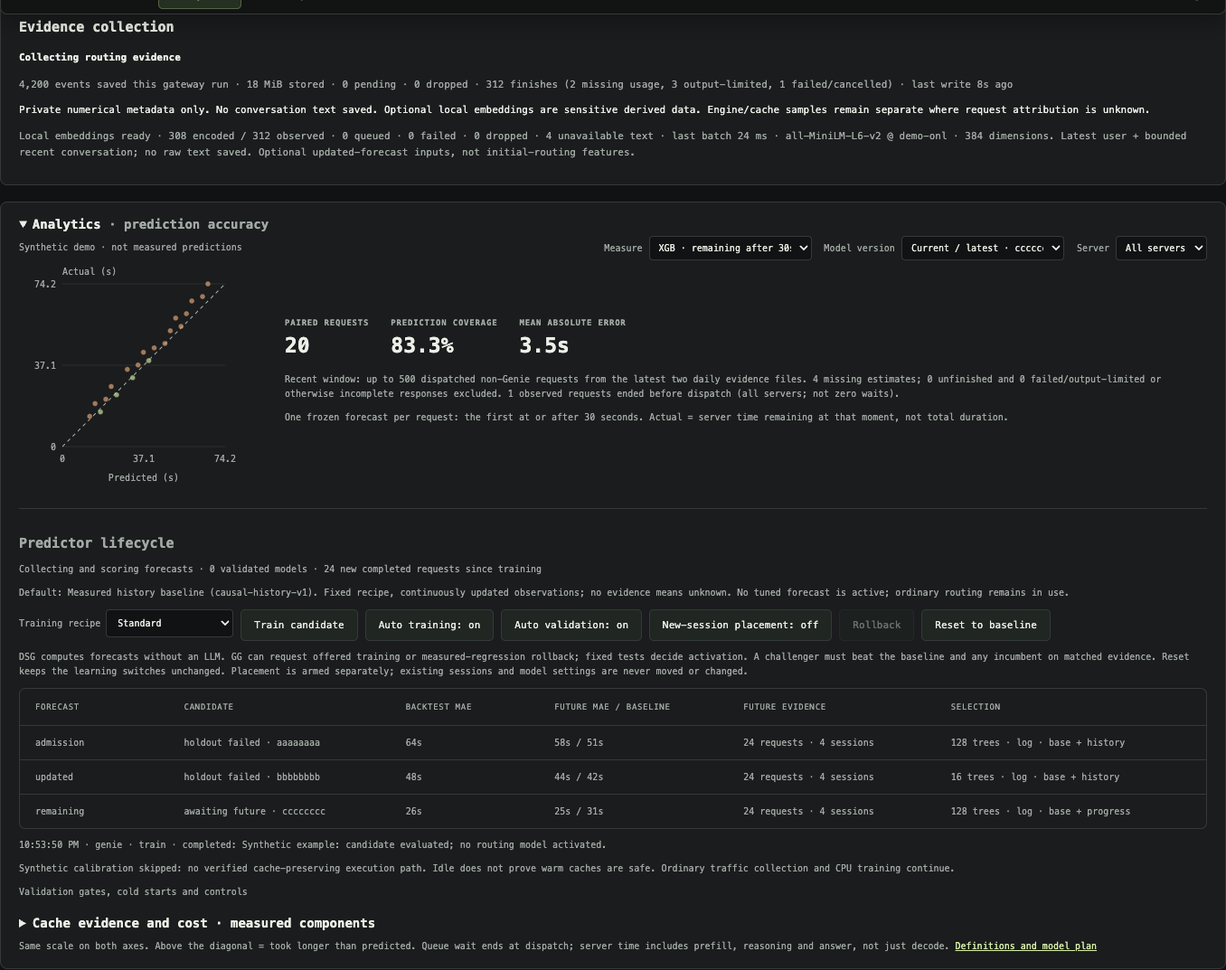
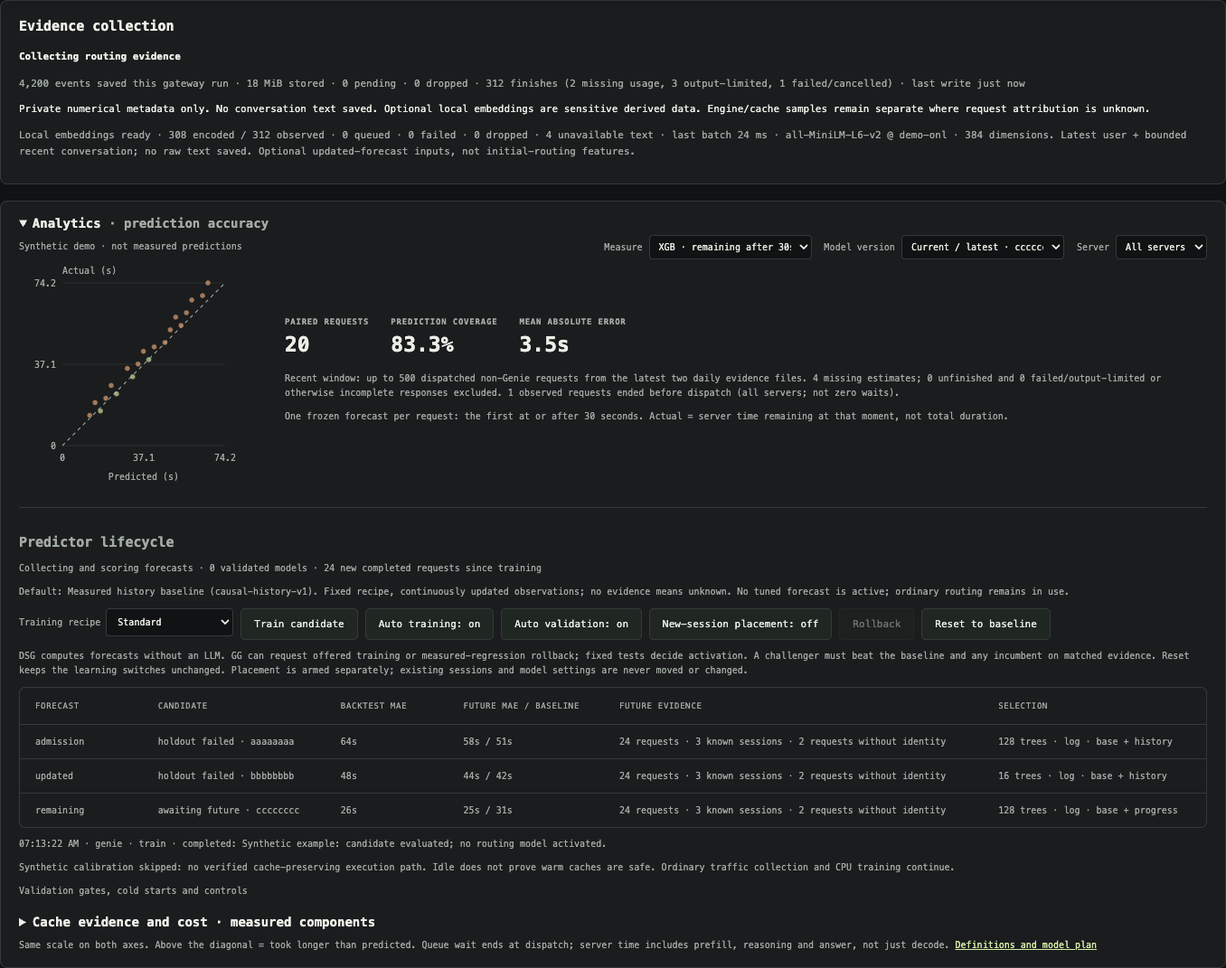
Require identified sessions for predictor qualification

diff --git a/ds4-gateway/ui/ui.js b/ds4-gateway/ui/ui.js
@@ -6,6 +6,10 @@ const esc = s => String(s ?? '').replace(/[&<>"']/g, c => ({ '&': '&amp;', '<': 
 const age = (time, now) => !time ? 'no sample yet' : now - time < 5000 ? 'just now' : now - time < 60000 ? `${Math.floor((now-time)/1000)}s ago` : `${Math.floor((now-time)/60000)}m ago`;
 const remaining = (time, now) => !time ? 'unknown' : time <= now ? 'expired' : time-now < 60000 ? `${Math.ceil((time-now)/1000)}s` : time-now < 3600000 ? `${Math.ceil((time-now)/60000)}m` : `${(Math.ceil((time-now)/360000)/10).toFixed(1).replace(/\.0$/,'')}h`;
 const clock = t => new Date(t).toLocaleTimeString([], { hour: '2-digit', minute: '2-digit', second: '2-digit' });
+function predictionSessionLabel(evidence){
+  if(!Number.isSafeInteger(evidence?.known_sessions)||evidence.known_sessions<0)return `${fmt(evidence?.sessions??0)} recorded groups`;
+  return `${fmt(evidence.known_sessions)} known sessions${evidence.unknown_identity_requests>0?` · ${fmt(evidence.unknown_identity_requests)} requests without identity`:''}`;
+}
 function forecastLabel(f, now, stale=false) {
   if (!f || !Number.isFinite(f.at) || !Number.isFinite(f.seconds) || f.seconds<0 || f.at>now) return 'ETA unknown';
   if (stale || now-f.at>60000) return 'Forecast stale';
@@ -886,7 +890,7 @@ function renderMilestones(milestones,unavailable){
       const title=document.createElement('strong');title.textContent=`${m.kind}: a challenger earned its place.`;
       const facts=document.createElement('p'),s=m.evidence.baseline,c=m.evidence.champion;
       const gain=s.baseline_mae_s>0?100*(1-s.mae_s/s.baseline_mae_s):null;
-      facts.textContent=`Verified at ${clock(m.time)} · model ${m.model_id.slice(0,8)} · ${fmt(gain)}% lower mean absolute prediction error than ${m.baseline_id}: ${fmt(s.mae_s)}s vs ${fmt(s.baseline_mae_s)}s over ${s.requests} requests / ${s.sessions} sessions (${(m.evidence.workers||[]).join(', ')}).${c?` Matched incumbent ${m.comparator_id.slice(0,8)}: ${fmt(c.mae_s)}s vs ${fmt(c.baseline_mae_s)}s over ${c.requests} requests; ${c.fallback_points}/${c.forecast_points} incumbent forecast points used its baseline fallback.`:''} This is prediction accuracy, not a measured routing speedup.`;
+      facts.textContent=`Verified at ${clock(m.time)} · model ${m.model_id.slice(0,8)} · ${fmt(gain)}% lower mean absolute prediction error than ${m.baseline_id}: ${fmt(s.mae_s)}s vs ${fmt(s.baseline_mae_s)}s over ${s.requests} requests / ${predictionSessionLabel(s)} (${(m.evidence.workers||[]).join(', ')}).${c?` Matched incumbent ${m.comparator_id.slice(0,8)}: ${fmt(c.mae_s)}s vs ${fmt(c.baseline_mae_s)}s over ${c.requests} requests; ${c.fallback_points}/${c.forecast_points} incumbent forecast points used its baseline fallback.`:''} This is prediction accuracy, not a measured routing speedup.`;
       article.append(title,facts);
       if(m.commentary){const comment=document.createElement('p');comment.textContent=`Genie commentary: ${m.commentary.text}`;article.append(comment);}
       const button=document.createElement('button');button.type='button';button.className='button';button.dataset.milestone=m.id;button.textContent='Dismiss announcement';article.append(button);
@@ -917,7 +921,7 @@ function renderPredictor(state,unavailable=false){
     b.disabled=unavailable||!state?.configured||predictorControlBusy||(action==='train'&&state.busy)||(action==='rollback'&&!active);
     if(['automatic_training','automatic_promotion','placement'].includes(action)){const label={automatic_training:'Auto training',automatic_promotion:'Auto validation',placement:'New-session placement'}[action];b.textContent=`${label}: ${state?.[action]?'on':'off'}`;b.setAttribute('aria-pressed',String(!!state?.[action]));}
   }
-  $('predictor-models').innerHTML=`<table><thead><tr><th>Forecast</th><th>Candidate</th><th>Backtest MAE</th><th>Future MAE / baseline</th><th>Future evidence</th><th>Selection</th></tr></thead><tbody>${(state?.models||[]).map(m=>`<tr><td>${esc(m.kind)}${m.active_model_id?' · active '+esc(m.active_model_id.slice(0,8)):''}</td><td>${esc(m.status.replaceAll('_',' '))}${m.candidate_model_id?' · '+esc(m.candidate_model_id.slice(0,8)):''}</td><td>${fmt(m.holdout?.mae_s)}s</td><td>${fmt(m.future?.mae_s)}s / ${fmt(m.future?.baseline_mae_s)}s</td><td>${fmt(m.future?.requests||0)} requests · ${fmt(m.future?.sessions||0)} sessions</td><td>${m.selected?esc(`${m.selected.rounds} trees · ${m.selected.transform} · ${m.selected.family.join(' + ')}`):'Not enough evidence'}</td></tr>`).join('')}</tbody></table>`;
+  $('predictor-models').innerHTML=`<table><thead><tr><th>Forecast</th><th>Candidate</th><th>Backtest MAE</th><th>Future MAE / baseline</th><th>Future evidence</th><th>Selection</th></tr></thead><tbody>${(state?.models||[]).map(m=>`<tr><td>${esc(m.kind)}${m.active_model_id?' · active '+esc(m.active_model_id.slice(0,8)):''}</td><td>${esc(m.status.replaceAll('_',' '))}${m.candidate_model_id?' · '+esc(m.candidate_model_id.slice(0,8)):''}</td><td>${fmt(m.holdout?.mae_s)}s</td><td>${fmt(m.future?.mae_s)}s / ${fmt(m.future?.baseline_mae_s)}s</td><td>${fmt(m.future?.requests||0)} requests · ${esc(predictionSessionLabel(m.future))}</td><td>${m.selected?esc(`${m.selected.rounds} trees · ${m.selected.transform} · ${m.selected.family.join(' + ')}`):'Not enough evidence'}</td></tr>`).join('')}</tbody></table>`;
   $('predictor-actions').replaceChildren(...(state?.actions||[]).slice(0,5).map(a=>{const p=document.createElement('p');p.textContent=`${clock(a.time)} · ${a.actor} · ${a.action} · ${a.status}${a.recipe_id?' · '+a.recipe_id:''}: ${a.reason}`;return p;}));
 }
 $('predictor-controls').addEventListener('click',async event=>{

diff --git a/predictor/occupancy_future.py b/predictor/occupancy_future.py
@@ -1,6 +1,7 @@
 """Frozen-model future audit. Offline only; never promotes or changes routing."""
 import argparse
 import bisect
+import collections
 import datetime as dt
 import hashlib
 import json
@@ -8,7 +9,7 @@ import math
 import os
 import stat
 
-from fit_v2 import OCCUPANCY_SCHEMAS, baseline, exported_prediction, feature_coverage, metrics, split, split_usage, target_coverage
+from fit_v2 import OCCUPANCY_SCHEMAS, baseline, exported_prediction, feature_coverage, known_session, metrics, session_evidence, split, split_usage, target_coverage
 
 
 def read_json(path):
@@ -76,6 +77,31 @@ def elapsed_slices(training_rows, rows, predictions):
                       'metrics':metrics(selected,estimates) if selected else None,
                       'baselines':baseline(training_rows,selected)[0] if selected else None}
     return result
+
+
+def future_strata(training_rows, rows, predictions):
+    """Describe transfer evidence, not a new release gate or model selector.
+
+    Familiarity uses only the fitted partition, not every session in the frozen
+    input snapshot. Missing session identity is neither familiar nor unseen.
+    Reweight each slice by request so verbose progress cannot dominate it.
+    """
+    known={r['group'] for r in training_rows if known_session(r.get('group'))}
+    workers=collections.defaultdict(list)
+    sessions={name:[] for name in ('seen_in_training','unseen_in_training','unknown')}
+    for row,prediction in zip(rows,predictions,strict=True):
+        workers[row['node']].append((row,prediction))
+        group=row.get('group')
+        bucket='unknown' if not known_session(group) else 'seen_in_training' if group in known else 'unseen_in_training'
+        sessions[bucket].append((row,prediction))
+    def summarize(pairs):
+        points=[row for row,_ in pairs];estimates=[p for _,p in pairs]
+        return {'points':len(points),'metrics':metrics(points,estimates) if points else None,
+                'baselines':baseline(training_rows,points)[0] if points else None}
+    return {'by_worker':{node:summarize(pairs) for node,pairs in sorted(workers.items())},
+            'session_evidence':session_evidence(rows),
+            'by_session_familiarity':{name:summarize(pairs) for name,pairs in sessions.items()},
+            'note':'Fixed descriptive slices, not tuning or promotion gates. Familiarity is relative to fitted training sessions, not proof of independent traffic or matching profile eras. Worker IDs remain private audit data; request/session IDs are not emitted.'}
 
 
 def remaining_age_support(training_rows, rows):
@@ -161,6 +187,7 @@ def evaluate(candidate_path,training_path,receipt_path,prepared_path):
         tr,_=split([r for r in training['rows'] if r['kind']==kind],candidate['reports'][kind]['cutoff'])
         report={'status':'no_future_labels','target_coverage':target_coverage(rows),
                 'input_support':input_support(model,tr,rows,training.get('groups',{}).get('hardware',[]))};result['reports'][kind]=report
+        report['future_strata']=future_strata(tr,[],[])
         if kind=='remaining':report['age_support']=remaining_age_support(tr,rows)
         if not rows:
             if kind=='remaining':report['by_elapsed']=elapsed_slices(tr,[],[])
@@ -168,6 +195,7 @@ def evaluate(candidate_path,training_path,receipt_path,prepared_path):
         if not tr:raise ValueError('Frozen training partition is empty')
         predictions=[exported_prediction(model,r['features']) for r in rows]
         if any(not math.isfinite(p) for p in predictions):raise ValueError('Non-finite prediction')
+        report['future_strata']=future_strata(tr,rows,predictions)
         report.update(status='observed_not_promoted',metrics=metrics(rows,predictions),baselines=baseline(tr,rows)[0],
             terminal_classes={label:metrics([r for r in rows if r['terminal_class']==label],[p for r,p in zip(rows,predictions) if r['terminal_class']==label])
                 if any(r['terminal_class']==label for r in rows) else None for label in ('normal','output_limited')})

diff --git a/predictor/test_occupancy_future.py b/predictor/test_occupancy_future.py
@@ -9,6 +9,56 @@ import occupancy_future as audit
 
 
 class OccupancyFutureTests(unittest.TestCase):
+    def test_future_strata_expose_worker_failure_and_unseen_sessions_without_names(self):
+        tr=[self.row('train',100,200)]
+        tr[0]['group']='private-familiar-session'
+        rows=[self.row('a',1000,2000),self.row('b',1000,2000),self.row('c',1000,2000)]
+        rows[0]['group']='private-familiar-session'
+        rows[1]['group']='private-unseen-session';rows[1]['node']='b'
+        rows[2]['group']='unknown-session';rows[2]['node']='b'
+        original=copy.deepcopy((tr,rows))
+        result=audit.future_strata(tr,rows,[10,110,10])
+        self.assertEqual(result['by_worker']['a']['metrics']['mae_s'],0)
+        self.assertEqual(result['by_worker']['b']['metrics']['mae_s'],50)
+        self.assertEqual(result['by_session_familiarity']['seen_in_training']['metrics']['mae_s'],0)
+        self.assertEqual(result['by_session_familiarity']['unseen_in_training']['metrics']['mae_s'],100)
+        unknown=result['by_session_familiarity']['unknown']
+        self.assertEqual(unknown['metrics']['requests'],1)
+        self.assertEqual(unknown['baselines']['worker_mean']['mae_s'],0)
+        self.assertEqual((tr,rows),original)
+        encoded=json.dumps(result)
+        self.assertNotIn('private-familiar-session',encoded)
+        self.assertNotIn('private-unseen-session',encoded)
+        self.assertNotIn('request_id',encoded)
+
+    def test_future_strata_rebalance_progress_within_worker_and_keep_empty_unknown(self):
+        tr=[self.row('train',100,200)]
+        rows=[self.row('a',1000,2000,'remaining') for _ in range(40)]+[self.row('b',1000,2000,'remaining')]
+        result=audit.future_strata(tr,rows,[10]*40+[110])
+        self.assertEqual(result['by_worker']['a']['points'],41)
+        self.assertEqual(result['by_worker']['a']['metrics']['requests'],2)
+        self.assertAlmostEqual(result['by_worker']['a']['metrics']['mae_s'],50)
+        empty=result['by_session_familiarity']['unseen_in_training']
+        self.assertEqual(empty,{'points':0,'metrics':None,'baselines':None})
+        self.assertEqual(audit.future_strata(tr,[],[])['by_worker'],{})
+        with self.assertRaises(ValueError):audit.future_strata(tr,rows,[10])
+
+    def test_evaluation_familiarity_uses_actual_fitted_partition_not_entire_snapshot(self):
+        self.training['rows'].append({**self.row('holdout',600,700),'group':'only-in-holdout'})
+        self.training['rows'].append({**self.row('unfinished-at-cut',100,900),'group':'purged-training'})
+        self.write('training',self.training)
+        self.receipt=audit.freeze(self.root/'candidate',self.root/'training',self.root/'strata-receipt')
+        cut=audit.timestamp(self.receipt['frozen_at'])
+        self.future['snapshot']['created_at']=dt.datetime.fromtimestamp((cut+10000)/1000,dt.timezone.utc).isoformat()
+        self.future['rows']=[{**self.row(str(i),cut+1,cut+1000),'group':group}
+                             for i,group in enumerate(('session','only-in-holdout','purged-training'))]
+        self.write('future',self.future)
+        result=audit.evaluate(self.root/'candidate',self.root/'training',self.root/'strata-receipt',self.root/'future')
+        r=result['reports']['admission']['future_strata']
+        self.assertEqual(r['by_session_familiarity']['seen_in_training']['metrics']['requests'],1)
+        self.assertEqual(r['by_session_familiarity']['unseen_in_training']['metrics']['requests'],2)
+        self.assertEqual(result['reports']['remaining']['future_strata']['by_worker'],{})
+
     def test_remaining_age_support_counts_jobs_not_repeated_progress_and_excludes_future_labels(self):
         tr=[self.row('a',100,200,'remaining') for _ in range(50)]+[self.row('b',100,200,'remaining')]
         for row in tr:row['features']['elapsed_s']=900

diff --git a/predictor/fit_v2.py b/predictor/fit_v2.py
@@ -42,6 +42,20 @@ def unique(rows):
     return len({(r['run_id'], r['request_id']) for r in rows})
 
 
+def known_session(group):
+    return isinstance(group,str) and bool(group.strip()) and group!='unknown-session'
+
+
+def session_evidence(rows):
+    return {'known_sessions':len({r['group'] for r in rows if known_session(r.get('group'))}),
+            'unknown_identity_requests':unique([r for r in rows if not known_session(r.get('group'))])}
+
+
+def validated_holdout(rows, measured, baselines):
+    # Preserve thresholds; missing identity is not an independent session.
+    return unique(rows)>=20 and session_evidence(rows)['known_sessions']>=3 and measured['mae_s']<=min(x['mae_s'] for x in baselines.values())*.9 and .7<=measured['mean_ratio']<=1.3
+
+
 def weights(rows):
     counts = collections.Counter((r['run_id'], r['request_id']) for r in rows)
     return np.asarray([1 / counts[(r['run_id'], r['request_id'])] for r in rows])
@@ -64,7 +78,7 @@ def folds(rows):
         index = int(len(times)*(fraction+.2))
         end = times[index] if index < len(times) else float('inf')
         tr, va = split(rows, start, end)
-        if unique(tr) >= 15 and unique(va) >= 5 and len({r['group'] for r in tr}) >= 2:
+        if unique(tr) >= 15 and unique(va) >= 5 and session_evidence(tr)['known_sessions'] >= 2:
             result.append((tr, va))
     return result
 
@@ -303,13 +317,15 @@ def train(prepared, recipe_id=DEFAULT_RECIPE, *, occupancy=False):
         by_worker={node:metrics([r for r in te if r['node']==node],[float(p) for r,p in zip(te,predictions) if r['node']==node]) for node in {r['node'] for r in te}}
         # Gate is deliberately immutable code, not a parameter the Genie supplies.
         best_baseline=min(x['mae_s'] for x in baselines.values())
-        passed=unique(te)>=20 and measured['sessions']>=3 and measured['mae_s']<=best_baseline*.9 and .7<=measured['mean_ratio']<=1.3
-        unseen=[r for r in te if r['group'] not in {x['group'] for x in tr}]
+        passed=validated_holdout(te,measured,baselines)
+        trained_groups={r['group'] for r in tr if known_session(r.get('group'))}
+        unseen=[r for r in te if known_session(r.get('group')) and r['group'] not in trained_groups]
         unseen_metrics=metrics(unseen,predict(model,enc,factor,unseen,winner['transform'])) if unseen else None
         unseen_baselines=baseline(tr,unseen)[0] if unseen else None
-        unseen_passed=bool(unseen_metrics and unseen_metrics['requests']>=20 and unseen_metrics['sessions']>=3 and unseen_metrics['mae_s']<=min(m['mae_s'] for m in unseen_baselines.values())*.9 and .7<=unseen_metrics['mean_ratio']<=1.3)
+        unseen_passed=bool(unseen_metrics and validated_holdout(unseen,unseen_metrics,unseen_baselines))
         report.update(status='holdout_passed' if passed else 'holdout_failed',selected={k:v for k,v in winner.items() if k!='names'},ablations=[{k:v for k,v in c.items() if k not in ('names','fold_metrics')} for c in candidates],holdout=measured,baselines=baselines,by_worker=by_worker,cutoff=cutoff,unseen_session=unseen_metrics,unseen_session_passed=unseen_passed,
                       training_groups=sorted({r['group'] for r in tr}),holdout_groups=sorted({r['group'] for r in te}),holdout_passed=passed,
+                      session_evidence={'training':session_evidence(tr),'holdout':session_evidence(te),'unseen':session_evidence(unseen)},
                       feature_availability='shared chronological replay; strictly earlier completed history',tree_selection='forward-time folds inside training; unfinished labels purged; recurring sessions allowed; separate unseen-session placement gate')
         # Export the EXACT evaluated model. No unevaluated all-data refit is
         # silently substituted for the artifact that earned these measurements.

diff --git a/predictor/test_v2.py b/predictor/test_v2.py
@@ -13,6 +13,47 @@ ROOT=Path(__file__).resolve().parent.parent
 
 
 class PredictorV2Tests(unittest.TestCase):
+    def test_missing_identity_is_not_independent_session_evidence(self):
+        rows=self.rows(8)
+        for row,group in zip(rows,['a','b','unknown-session',None,'','  ',42,'a']):row['group']=group
+        self.assertEqual(v.session_evidence(rows),{'known_sessions':2,'unknown_identity_requests':5})
+        self.assertEqual(v.session_evidence(rows+[rows[2]]*20),{'known_sessions':2,'unknown_identity_requests':5})
+        measured={'requests':30,'sessions':3,'mae_s':1,'mean_ratio':1}
+        baselines={'example':{'mae_s':10}}
+        validation=self.rows(30)
+        for i,row in enumerate(validation):row['group']=('a','b','unknown-session')[i%3]
+        self.assertFalse(v.validated_holdout(validation,measured,baselines))
+        for row in validation:
+            if row['group']=='unknown-session':row['group']='c'
+        self.assertTrue(v.validated_holdout(validation,measured,baselines))
+        self.assertFalse(v.validated_holdout(validation[:19],measured,baselines))
+        self.assertEqual(v.session_evidence([]),{'known_sessions':0,'unknown_identity_requests':0})
+
+    def test_unknown_identity_does_not_make_a_training_cv_fold_diverse(self):
+        rows=self.rows(120)
+        for i,row in enumerate(rows):row['group']='known' if i%2 else 'unknown-session'
+        self.assertEqual(v.folds(rows),[])
+        for i,row in enumerate(rows):row['group']='known' if i%2 else 'second-known'
+        self.assertGreaterEqual(len(v.folds(rows)),2)
+
+    def test_training_does_not_certify_unknown_as_a_third_unseen_session(self):
+        rows=self.rows(120)
+        for i,row in enumerate(rows):
+            row['target_s']=20
+            row['group']=('train-a','train-b')[i%2] if i<96 else ('new-a','new-b','unknown-session')[i%3]
+        data={'schema':v.SCHEMA,'rows':rows,'snapshot':{'hashes':{}},'groups':{'base':['server_id']},'categorical':['server_id']}
+        with tempfile.TemporaryDirectory() as directory,patch.object(v,'ROUNDS',(1,)),patch.object(v,'feature_families',return_value=[['base']]):
+            prepared=Path(directory)/'prepared.json';prepared.write_text(json.dumps(data))
+            result=v.train(prepared)
+        report=result['reports']['admission']
+        self.assertEqual(report['holdout']['sessions'],3,'Legacy metrics preserve their accounting groups')
+        self.assertEqual(report['session_evidence']['holdout'],{'known_sessions':2,'unknown_identity_requests':8})
+        self.assertEqual(report['unseen_session']['requests'],16)
+        self.assertEqual(report['session_evidence']['unseen'],{'known_sessions':2,'unknown_identity_requests':0})
+        self.assertFalse(report['holdout_passed']);self.assertFalse(report['unseen_session_passed'])
+        self.assertFalse(result['models']['admission']['holdout_passed'])
+        self.assertFalse(result['models']['admission']['new_session_validated'])
+
     def test_delivery_aware_rates_are_optional_inputs_not_the_reference_anchor(self):
         f={'history_delivery_estimate_s':.001,'prior_stream_delivery_tps':1000000,'prior_ttft_s':75,
            'recent_service_mean':80,'same_prior_server':1,'worker_service_median':90,'stage':'admission'}

diff --git a/docs/predictor-lifecycle.md b/docs/predictor-lifecycle.md
@@ -674,6 +674,39 @@ establish a routing improvement or independent future validation, and the gain
 cannot be attributed to recipe selection alone because the training data grew.
 Freeze the exact chosen bundle before collecting a new future evaluation cohort.
 
+### Later traffic and session-identity evidence
+
+A later frozen replay contained 49 admitted requests: 48 labeled completions and
+one with no terminal evidence. Of the completed jobs, one was already scored in
+the first snapshot; 47 gained labels later. There were only **two identified
+sessions**, plus two requests with unknown session identity—not three proven
+sessions. No identified unseen session was represented relative to the fitted
+training partition. These counts are dataset evidence, not a live fleet status.
+
+Admission / updated / remaining MAE was about **69 / 68 / 42 seconds**. The best
+aggregate baseline for each was about **54 / 55 / 50 seconds**. Remaining improved
+overall, but on one worker it still lost to that worker's mean baseline; another
+worker contributed only one completion. This is not broad generalization,
+calibrated placement or a measured routing speedup. No candidate was promoted.
+
+The offline `future_strata` report now separates per-worker error and baselines
+from familiar, unseen and unknown-session traffic. Familiar means present in the
+actual fitted partition, not merely the larger input snapshot or its holdout.
+Each slice reweights progress per request. Empty slices report null accuracy;
+session/request identities are not emitted, and worker IDs stay in private audits.
+The existing aggregate `sessions` field remains an accounting-group count for
+compatibility; consult `session_evidence` for identified-session support.
+
+The review reproduced a related eligibility bug: an `unknown-session` placeholder
+could help satisfy a session-diversity gate. Training CV, backtest/unseen-session
+qualification and future promotion now require **identified** sessions at the
+same existing thresholds. Unidentified rows remain in numerical fitting and
+error accounting; they are not deleted or treated as new-session validation.
+The live score adds `known_sessions` and `unknown_identity_requests`; the UI and
+Genie distinguish them from legacy recorded groups. Existing model artifacts,
+prediction math, numeric thresholds and regression-watchdog accounting are
+unchanged. The core fix requires deployment; historical receipts are not rewritten.
+
 ## Next learning work and current boundaries
 
 - [Early client hint collection](client-metadata.md) is implemented. The V3

diff --git a/CHANGELOG.md b/CHANGELOG.md
@@ -1,5 +1,23 @@
 # Changelog
 
+## Require identified-session evidence for predictor qualification
+
+- Reproduce false future promotion with four identified sessions plus an unknown
+  placeholder. Exclude missing/blank/sentinel identities from the existing
+  five-session gate and candidate evidence-wait check without changing thresholds,
+  deployed artifacts, numerical scores or regression-watchdog accounting.
+- Require identified training/CV/holdout session diversity and exclude unknown
+  identity from unseen-session qualification. Keep those rows for ordinary
+  fitting/error accounting; report explicit known/unknown support.
+- Add fixed per-worker and familiar/unseen/unknown slices to frozen future audits,
+  relative to the fitted partition. Reweight progress by request and report null
+  for empty slices; preserve existing aggregate predictions and errors.
+- Show known-session counts in the dashboard and Genie briefing, label older
+  receipts as recorded groups, and refresh the synthetic analytics screenshot.
+- Verify 48 later completions without refitting: remaining beats the strongest
+  aggregate baseline, but not every worker baseline; admission/updated still lose
+  to simple history. There is no identified unseen-session evidence or promotion.
+
 ## Report settled client failures without granting replay authority
 
 - Fix Agent Watch's `before_provider_request` hook returning a boolean that Pi

diff --git a/docs/roadmap.md b/docs/roadmap.md
@@ -66,6 +66,14 @@ abstains on relocation, compaction, profile/epoch change, stale or censored work
 It separates strongly guarded suspicion from unconfirmed low reuse and has no
 cache or routing authority.
 
+**Fresh forecast validation:** frozen future reports now separate worker results
+and identified familiar/unseen-session support. Missing session identity cannot
+qualify a candidate through CV, backtest or future diversity checks; numeric
+thresholds are unchanged. A 48-completion later replay improved remaining error
+overall but not every worker baseline, while admission/updated lost to simple
+history. No model was promoted; independent unseen-session and long-job evidence
+remain prerequisites, not claims inferred from an aggregate score.
+
 **Recovery update:** order 6's first slice is now implemented in
 [bounded DS4 service recovery](worker-recovery.md): systemd-user enrollment, GG and
 detector requests, independent guards, durable receipts and cold/warm verification.

diff --git a/WORKLOG.md b/WORKLOG.md
@@ -10,6 +10,14 @@ For unfinished work, see the [roadmap](docs/roadmap.md).
 
 ## Recent reliability and intelligence sprint — 2026-09-03 to 2026-09-05
 
+- **Stopped missing session identity from qualifying a predictor.** Fresh replay
+  exposed two known sessions plus unknown-identity work, not three independent
+  sessions. Training and promotion keep their existing thresholds but no longer
+  count the unknown placeholder toward diversity. The UI distinguishes known
+  sessions from legacy groups; frozen-model audits now split worker and session
+  familiarity. On 48 later completions, remaining improved overall while
+  admission/updated still lost to simple history. No model was promoted.
+
 - **Distinguished a failed Pi turn from healthy idle.** Agent Watch now reports
   a scoped terminal error only when Pi's session has fully settled, not while
   retry/compaction may continue. The UI and Genie distinguish client failure from

diff --git a/docs/screenshots.md b/docs/screenshots.md
@@ -1,6 +1,8 @@
 # Public dashboard screenshots
 
 Refreshed 2026-09-04 from the checked-in synthetic demo and current UI assets.
+Analytics refreshed 2026-09-05 to distinguish known sessions from requests with
+missing identity; the values remain fictional.
 These are actual browser captures of fictional data, not edited production
 screenshots, benchmark results, a live incident report or a promoted model.
 
